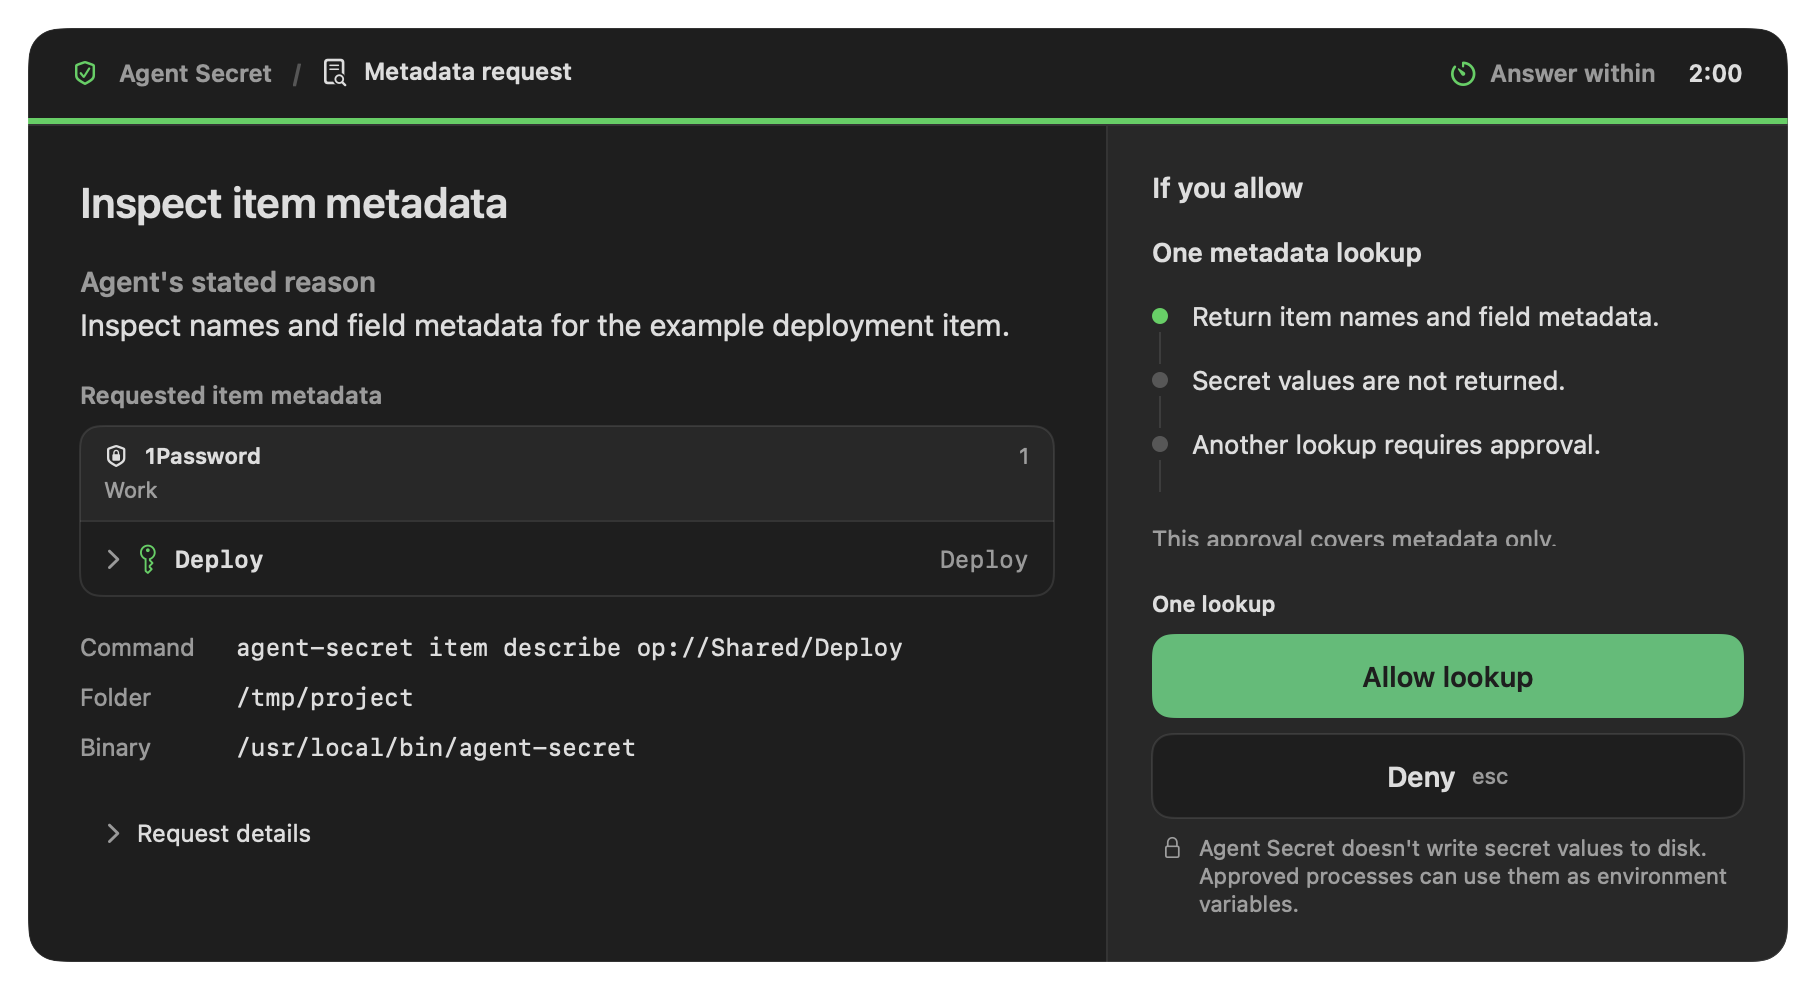
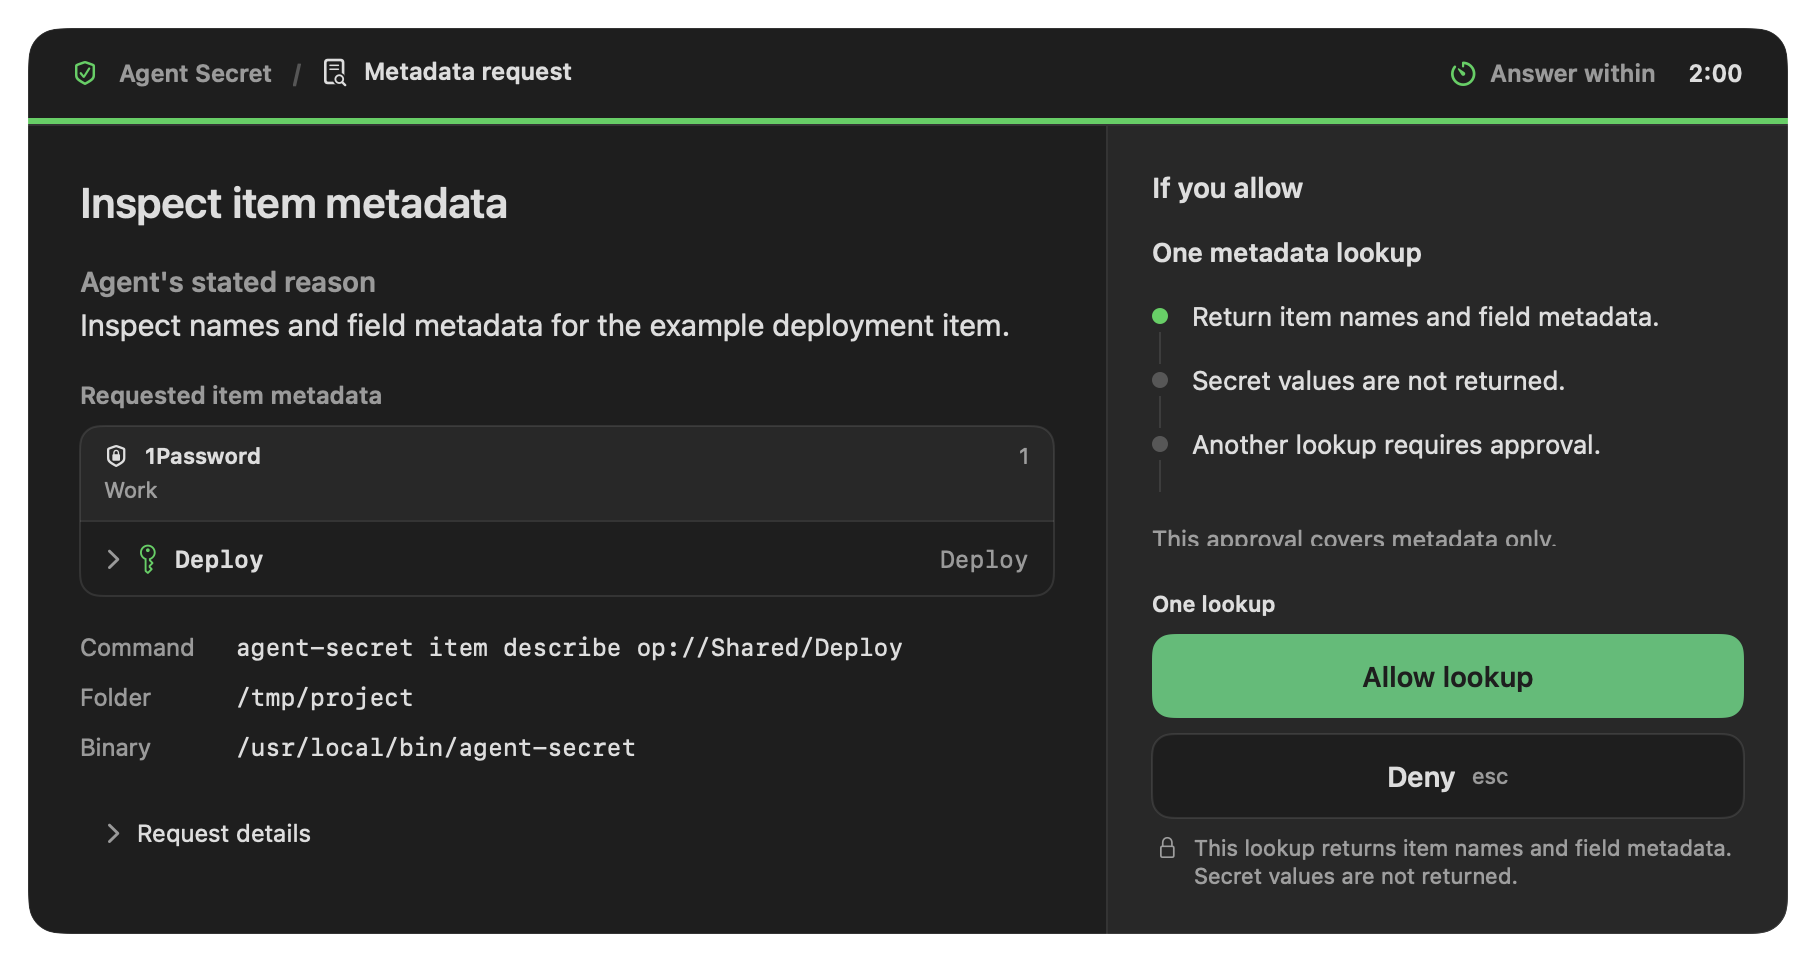
fix(approver): describe metadata lookups accurately

diff --git a/approver/Tests/AgentSecretApproverTests/Presentation/ApprovalRedesignPresentationTests.swift b/approver/Tests/AgentSecretApproverTests/Presentation/ApprovalRedesignPresentationTests.swift
@@ -116,6 +116,31 @@ final class ApprovalRedesignPresentationTests: XCTestCase {
         XCTAssertEqual(groups[3].identity.tokenAlias, "TWO")
     }
 
+    func testMetadataCopyDescribesLookupWithoutEnvironmentDelivery() throws {
+        var request = try request()
+        request.operation = .itemDescribe
+        let consequences = ApprovalConsequences(request: request, scope: .once)
+        XCTAssertEqual(consequences.resourceAliasLabel, "Item")
+        XCTAssertEqual(
+            consequences.deliveryNote,
+            "This lookup returns item names and field metadata. Secret values are not returned."
+        )
+    }
+
+    func testValueDeliveryCopyRetainsEnvironmentAndInjectionLabels() throws {
+        var request = try request()
+        for operation in [ApprovalOperation.exec, .sessionCreate] {
+            request.operation = operation
+            let consequences = ApprovalConsequences(request: request, scope: .once)
+            XCTAssertEqual(consequences.resourceAliasLabel, "Injected as")
+            XCTAssertEqual(
+                consequences.deliveryNote,
+                "Agent Secret doesn't write secret values to disk. " +
+                    "Approved processes can use them as environment variables."
+            )
+        }
+    }
+
     func testWarningsComposeAtHighScopeThreshold() throws {
         var request = try request()
         request.resolvedExecutable = "/usr/bin/env"

diff --git a/approver/Sources/AgentSecretApprover/Presentation/ViewModels/ApprovalConsequences.swift b/approver/Sources/AgentSecretApprover/Presentation/ViewModels/ApprovalConsequences.swift
@@ -7,12 +7,19 @@ struct ApprovalConsequences: Equatable {
     let limit: String
     let accessDuration: String?
     let readLimit: String?
+    let deliveryNote: String
+    let resourceAliasLabel: String
 
     init(request: ApprovalRequest, scope: ApprovalScope) {
         let duration = request.accessDurationSeconds.map { ApprovalRequestViewModel.formatRemaining(Double($0)) }
         accessDuration = request.operation == .sessionCreate ? duration ?? "Duration unavailable" : nil
         readLimit = request.operation == .sessionCreate ? request.sessionMaxReads.map { "\($0) total reads" }
             ?? "Read limit unavailable" : nil
+        resourceAliasLabel = request.operation == .itemDescribe ? "Item" : "Injected as"
+        deliveryNote = request.operation == .itemDescribe
+            ? "This lookup returns item names and field metadata. Secret values are not returned."
+            : "Agent Secret doesn't write secret values to disk. " +
+            "Approved processes can use them as environment variables."
         switch request.operation {
         case .itemDescribe:
             heading = "One metadata lookup"

diff --git a/approver/Sources/AgentSecretApprover/Presentation/Views/Resources/ApprovalPanelExpandableResource.swift b/approver/Sources/AgentSecretApprover/Presentation/Views/Resources/ApprovalPanelExpandableResource.swift
@@ -5,6 +5,7 @@
         private typealias Layout = ApprovalPanelLayout
 
         let resource: RequestedResourceRowViewModel
+        let resourceAliasLabel: String
         @State private var expanded = false
 
         var body: some View {
@@ -14,7 +15,7 @@
                     if !resource.account.isEmpty { detail("Account", resource.account) }
                     if !resource.source.isEmpty { detail("Source", resource.source) }
                     if !resource.bitwardenTokenAlias.isEmpty { detail("Token alias", resource.bitwardenTokenAlias) }
-                    detail("Injected as", resource.alias)
+                    detail(resourceAliasLabel, resource.alias)
                 }
                 .padding(.top, Layout.compactSpacing)
             } label: {

diff --git a/approver/Sources/AgentSecretApprover/Presentation/Views/Panel/ApprovalRequestPanelView+Consequences.swift b/approver/Sources/AgentSecretApprover/Presentation/Views/Panel/ApprovalRequestPanelView+Consequences.swift
@@ -51,14 +51,10 @@
         }
 
         private var deliveryNote: some View {
-            Label(
-                "Agent Secret doesn't write secret values to disk. " +
-                    "Approved processes can use them as environment variables.",
-                systemImage: "lock"
-            )
-            .font(.system(size: Layout.captionFontSize))
-            .foregroundStyle(.secondary)
-            .fixedSize(horizontal: false, vertical: true)
+            Label(consequences.deliveryNote, systemImage: "lock")
+                .font(.system(size: Layout.captionFontSize))
+                .foregroundStyle(.secondary)
+                .fixedSize(horizontal: false, vertical: true)
         }
 
         private var timeline: some View {

diff --git a/approver/Sources/AgentSecretApprover/Presentation/Views/Resources/ApprovalPanelAccountGroup.swift b/approver/Sources/AgentSecretApprover/Presentation/Views/Resources/ApprovalPanelAccountGroup.swift
@@ -5,6 +5,7 @@
         private typealias Layout = ApprovalPanelLayout
 
         let group: ResourceAccountGroupViewModel
+        let resourceAliasLabel: String
 
         var body: some View {
             VStack(alignment: .leading, spacing: 0) {
@@ -25,7 +26,7 @@
                 .background(ApprovalPanelTheme.sunken)
                 ForEach(Array(group.resources.enumerated()), id: \.offset) { _, resource in
                     Divider()
-                    ApprovalPanelExpandableResource(resource: resource)
+                    ApprovalPanelExpandableResource(resource: resource, resourceAliasLabel: resourceAliasLabel)
                 }
             }
         }

diff --git a/approver/Sources/AgentSecretApprover/Presentation/Views/Panel/ApprovalRequestPanelView+Resources.swift b/approver/Sources/AgentSecretApprover/Presentation/Views/Panel/ApprovalRequestPanelView+Resources.swift
@@ -10,7 +10,7 @@
                     .font(.system(size: Layout.rowSpacing, weight: .semibold)).foregroundStyle(.secondary)
                 VStack(spacing: 0) {
                     ForEach(Array(viewModel.accountGroups.enumerated()), id: \.offset) { _, group in
-                        ApprovalPanelAccountGroup(group: group)
+                        ApprovalPanelAccountGroup(group: group, resourceAliasLabel: consequences.resourceAliasLabel)
                     }
                 }
                 .background(ApprovalPanelTheme.raised)

diff --git a/CHANGELOG.md b/CHANGELOG.md
@@ -45,6 +45,8 @@ file before a release is published.
 
 - Made resource and request-detail disclosure rows clickable across the full
   label area, with hover feedback and an expanded/collapsed accessibility value.
+- Corrected metadata approval footers and item details to describe a metadata
+  lookup without implying environment injection.
 - Kept simultaneous broad-scope, environment-printing, override, and mutable
   executable cautions visible together. Clarified that processes can retain
   values already delivered after access ends.
